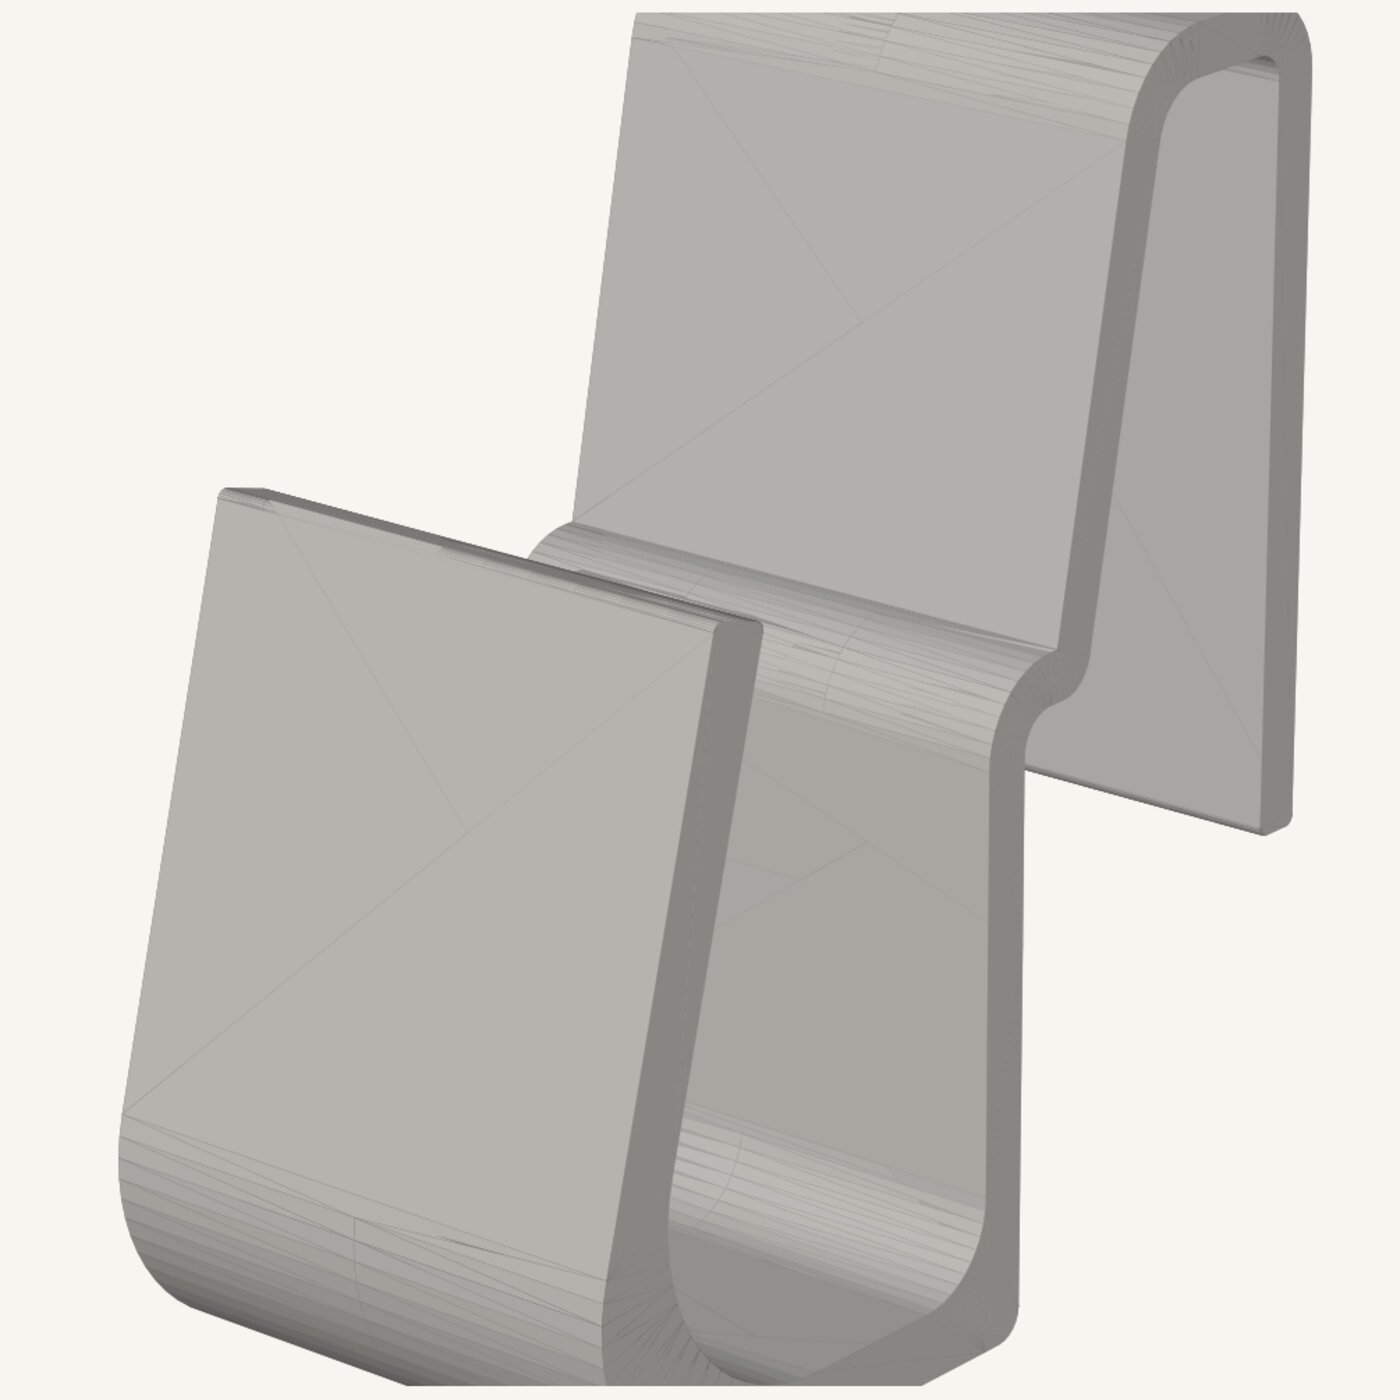
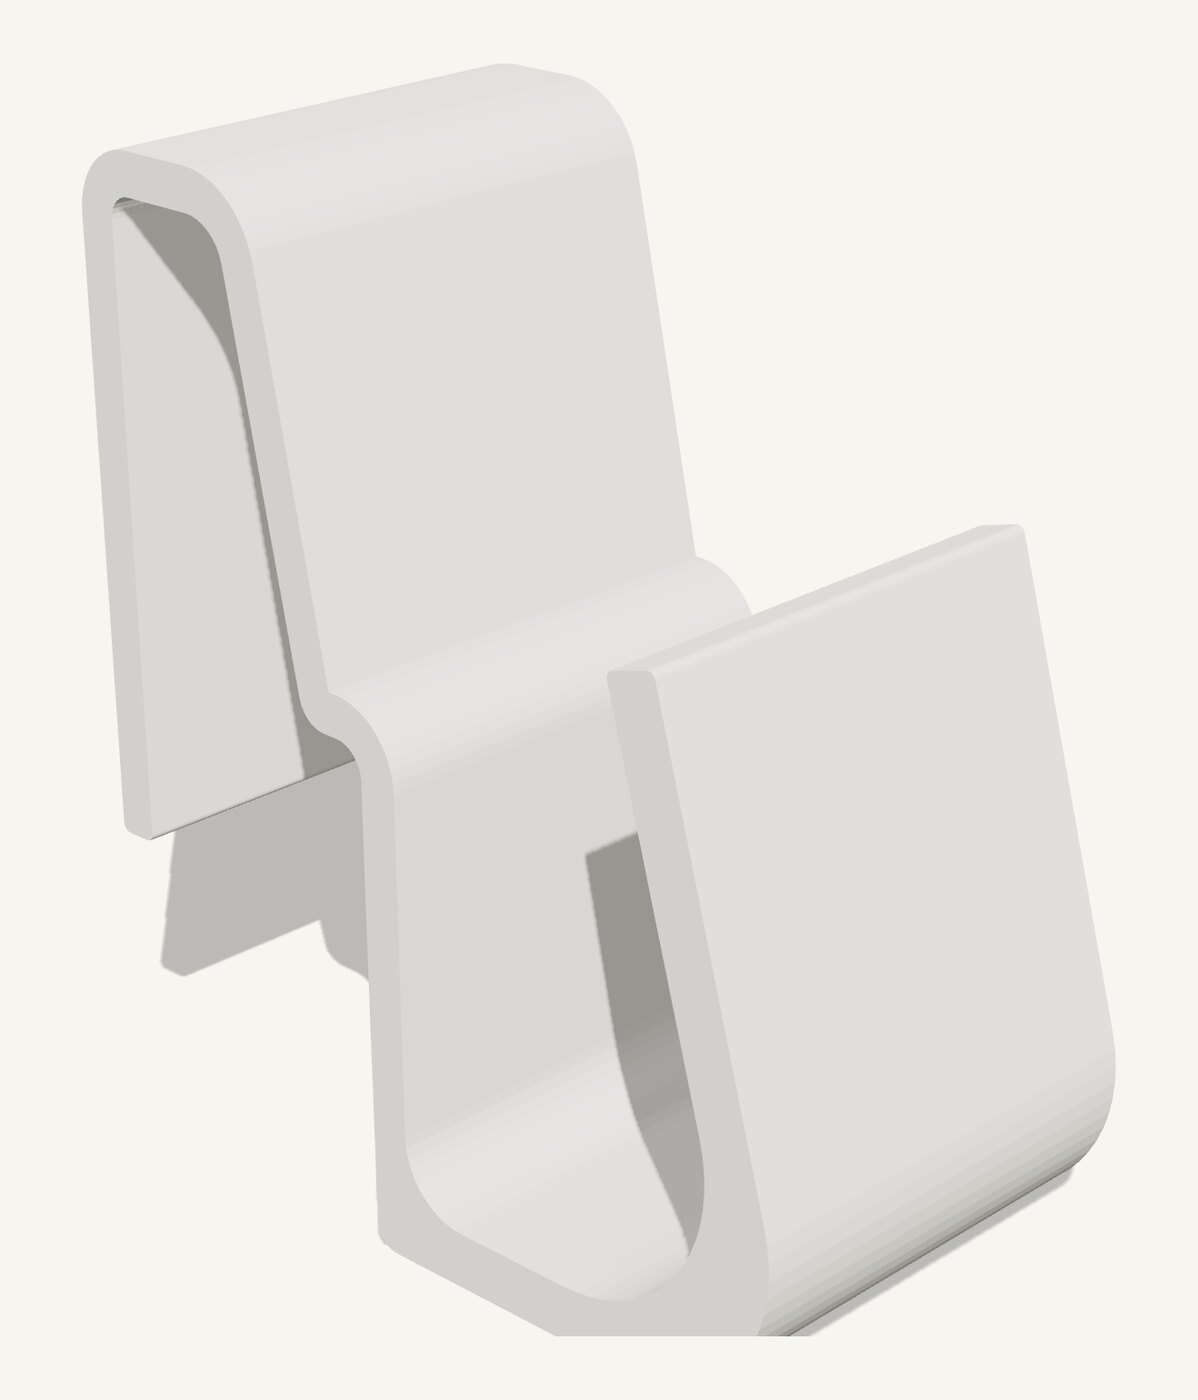
Replace the CAD renders and cut the ones that showed nothing
The matplotlib renders were faceted, washed out and flat. These are made by
loading the STL into three.js in headless Chromium with a proper light rig
and a contact shadow, then screenshotting the canvas.

The fitment coupon render is gone: its pocket is on the underside, so the
image was a featureless slab. That section stands on its text. The line
admitting the printed photographs were still to come is also removed.

Claude-Session: https://claude.ai/code/session_017JEN8fdinWMj7vJoDYvc2E

diff --git a/PROJECT_BRIEF.md b/PROJECT_BRIEF.md
@@ -171,11 +171,15 @@ POP 4 with its turntable and global markers. The photograph of the three remotes
 cutting mat is a photograph only: Zachary confirmed he did not measure from it, and every dimension
 came from the scans. Nothing on the page may imply otherwise. The remotes gave the pocket geometry, the table gave
 the base. He modelled a single-pocket test coupon (102 x 57 x 24 mm) before committing to the full
-body (140 x 97 x 62 mm, three pockets). Photographs of the printed holder are still to come and the
-page says so; do not describe the physical result until they arrive.
+body (140 x 97 x 62 mm, three pockets). Photographs of the printed holder are still to come.
+The page no longer says so, at Zachary's instruction, but the rule stands: do not describe the
+physical result until they arrive.
 
-The two CAD images on this page are renders generated from his STL files, and the captions say
-"Render of the model" because they are not photographs and must not read as any.
+The CAD image on this page is a render generated from his STL file, and the caption says "Render of
+the model" because it is not a photograph and must not read as one. Renders are produced by loading
+the STL into three.js in headless Chromium and screenshotting the canvas, not with matplotlib: the
+matplotlib output was faceted and washed out and Zachary rejected it. The fitment coupon render was
+dropped because the pocket sits on the underside and the render showed a featureless slab.
 
 ## Design notes
 
